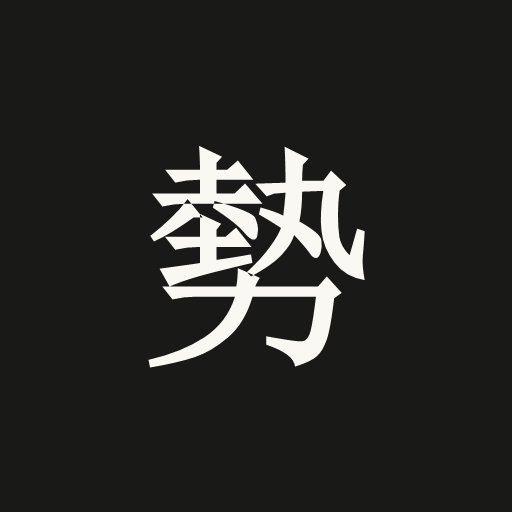
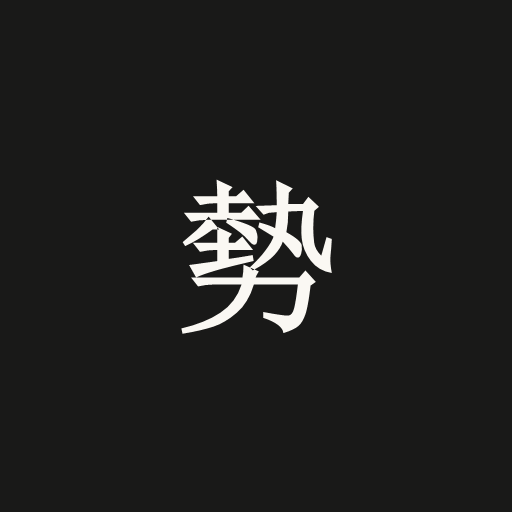
style(pwa): 图标字号 0.46 → 0.32，留白从 29% 提到 35%
字小一圈、四周更空，缩小到任务栏尺寸也不堵。墨迹占比 42% → 29%
（0.60 的原版是 55%）。只动 scripts/make_icons.ps1 里 $scale 一个数，
三张 PNG 重新生成；manifest / apple-touch-icon / sw 缓存名的内容指纹
随之从 3429cf05a8 变成 3d954ee5c8 —— 已安装的 App 会因为图标 URL 变了
重新拉取，不用再手动改版本号。

Changed region(s): [[0.2812, 0.2812, 0.7188, 0.7188]]

diff --git a/site/sw.js b/site/sw.js
@@ -3,10 +3,10 @@
    HTML 走 network-first：联网时永远拿当天最新，断网回落到缓存，
    连缓存都没有就退回首页。图标/manifest 走 cache-first，它们基本不变。
    缓存名带版本号（构建日期 + 图标指纹），页面一更新就整体换掉。 */
-const CACHE = 'dailybrief-2026-09-12-3429cf05a8';
+const CACHE = 'dailybrief-2026-09-12-3d954ee5c8';
 const SHELL = ['./', './index.html', './manifest.webmanifest',
-               './icon-192.png?v=3429cf05a8', './icon-512.png?v=3429cf05a8',
-               './apple-touch-icon.png?v=3429cf05a8'];
+               './icon-192.png?v=3d954ee5c8', './icon-512.png?v=3d954ee5c8',
+               './apple-touch-icon.png?v=3d954ee5c8'];
 
 self.addEventListener('install', (e) => {
   e.waitUntil(

diff --git a/site/2026-09-10.html b/site/2026-09-10.html
@@ -11,7 +11,7 @@
 <meta name="apple-mobile-web-app-status-bar-style" content="default">
 <meta name="format-detection" content="telephone=no">
 <link rel="manifest" href="manifest.webmanifest">
-<link rel="apple-touch-icon" href="apple-touch-icon.png?v=3429cf05a8">
+<link rel="apple-touch-icon" href="apple-touch-icon.png?v=3d954ee5c8">
 <style>*{box-sizing:border-box;margin:0;padding:0}
 /* ── 主题变量层 ──
    [预留·皮肤主题] 颜色、圆角、阴影全部收在这一处，没有一个写死在下面的规则里。

diff --git a/site/2026-09-12.html b/site/2026-09-12.html
@@ -11,7 +11,7 @@
 <meta name="apple-mobile-web-app-status-bar-style" content="default">
 <meta name="format-detection" content="telephone=no">
 <link rel="manifest" href="manifest.webmanifest">
-<link rel="apple-touch-icon" href="apple-touch-icon.png?v=3429cf05a8">
+<link rel="apple-touch-icon" href="apple-touch-icon.png?v=3d954ee5c8">
 <style>*{box-sizing:border-box;margin:0;padding:0}
 /* ── 主题变量层 ──
    [预留·皮肤主题] 颜色、圆角、阴影全部收在这一处，没有一个写死在下面的规则里。

diff --git a/site/index.html b/site/index.html
@@ -11,7 +11,7 @@
 <meta name="apple-mobile-web-app-status-bar-style" content="default">
 <meta name="format-detection" content="telephone=no">
 <link rel="manifest" href="manifest.webmanifest">
-<link rel="apple-touch-icon" href="apple-touch-icon.png?v=3429cf05a8">
+<link rel="apple-touch-icon" href="apple-touch-icon.png?v=3d954ee5c8">
 <style>*{box-sizing:border-box;margin:0;padding:0}
 /* ── 主题变量层 ──
    [预留·皮肤主题] 颜色、圆角、阴影全部收在这一处，没有一个写死在下面的规则里。
